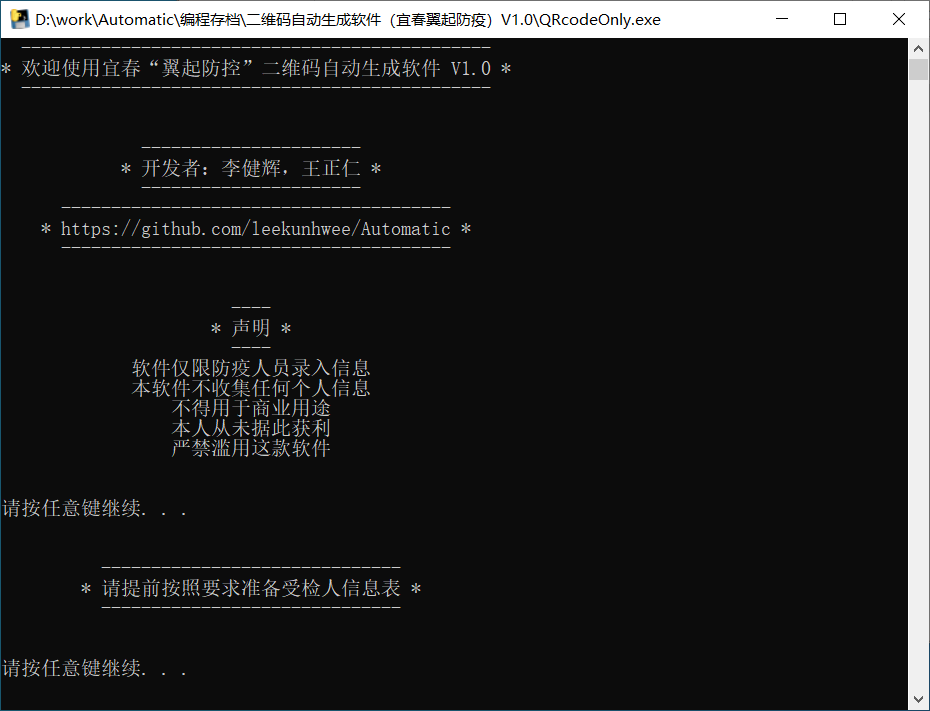
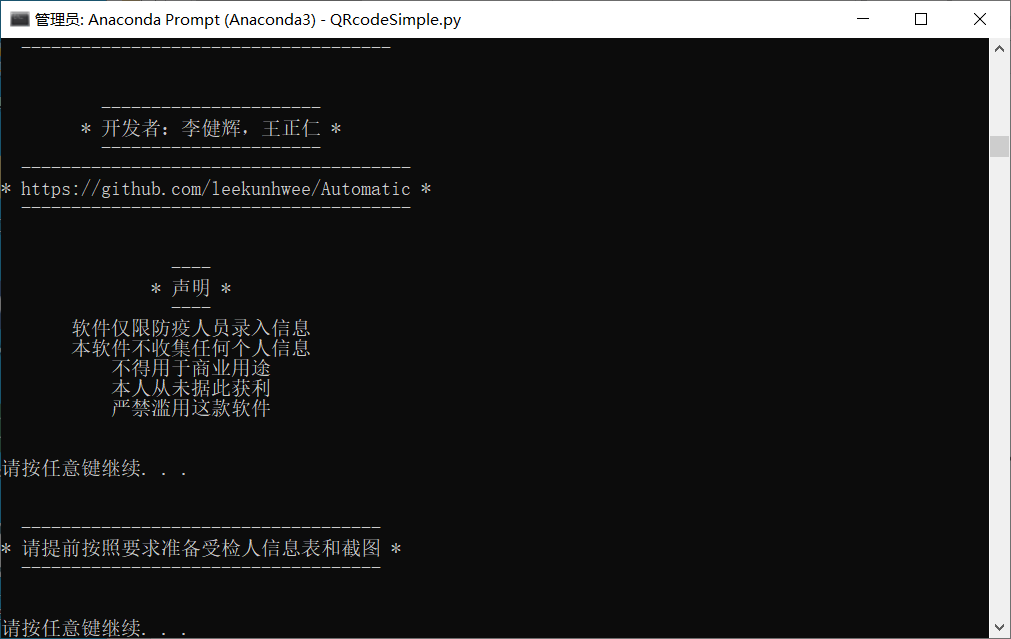
update

diff --git a/Yiqi/QRcodeSimple.py b/Yiqi/QRcodeSimple.py
@@ -1,5 +1,6 @@
 #!/usr/bin/env python 
 # -*- coding: utf-8 -*-
+
 import os
 import xlrd
 import openpyxl 
@@ -16,6 +17,9 @@ import base64
 import urllib.parse
 import qrcode
 from PIL import Image, ImageDraw, ImageFont  # pip install pillow
+import numpy as np
+import cv2
+
 
 
 # 原系统通过转码方式将姓名、身份证、电话转为二维码，所以这里模拟该过程生成二维码
@@ -27,8 +31,7 @@ def makeQRCode(userName, userCard, userTel):
 	qr.add_data(infoStr)
 	img = qr.make_image(fill_color="black", back_color="white")
 	img_w, img_h = img.size
-	print(img_w, img_h)
-
+	# print(img_w, img_h)
 	text = userName+':\n'+userCard
 	oriImg = Image.open('./source/background.png')
 	oriImg.paste(img, (0, 13))
@@ -52,6 +55,19 @@ def findExcel():
 	else:
 		lb1.config(text = "您没有选择任何表格");
 
+## 读取图像，解决imread不能读取中文路径的问题
+def cv_imread(filePath):
+    # 核心就是下面这句，一般直接用这句就行，直接把图片转为mat数据
+    cv_img=cv2.imdecode(np.fromfile(filePath,dtype=np.uint8),-1)
+    # imdecode读取的是rgb，如果后续需要opencv处理的话，需要转换成bgr，转换后图片颜色会变化
+    # cv_img=cv2.cvtColor(cv_img,cv2.COLOR_RGB2BGR)
+    return cv_img
+
+# def cv_imread(file_path = ""):
+#     file_path_gbk = file_path.encode('gbk')       # unicode转gbk，字符串变为字节数组
+#     img_mat = cv2.imread(file_path_gbk.decode())  # 字节数组直接转字符串，不解码
+#     return img_mat
+
 def findShoot():
 	global source_shoot_name
 	filename = tk.filedialog.askopenfilename(title='选择 Png 截图', filetypes=[('屏幕截图', '*.png')]) # 限制文件选择类型
@@ -59,6 +75,7 @@ def findShoot():
 	if filename != '':
 		lb2.config(text = "您选择的程序截图是："+filename);
 		source_shoot_name = filename
+		# source_shoot_name = cv_imread(filename)
 		btn1.config(state = 'normal') # 激活确定按钮
 	else:
 		lb2.config(text = "您没有选择任何截图");
@@ -339,6 +356,8 @@ if __name__ == '__main__':
 	barSize=55 # 菜单栏高度
 	bottom=75 # 底部菜单栏高度
 	# 获取截图的实际尺寸
+
+	source_shoot_name = cv_imread(source_shoot_name)
 	position=pyautogui.locateOnScreen(source_shoot_name)
 	if(position==None):
 		print('\n\n  -----------------------------------------------------')
